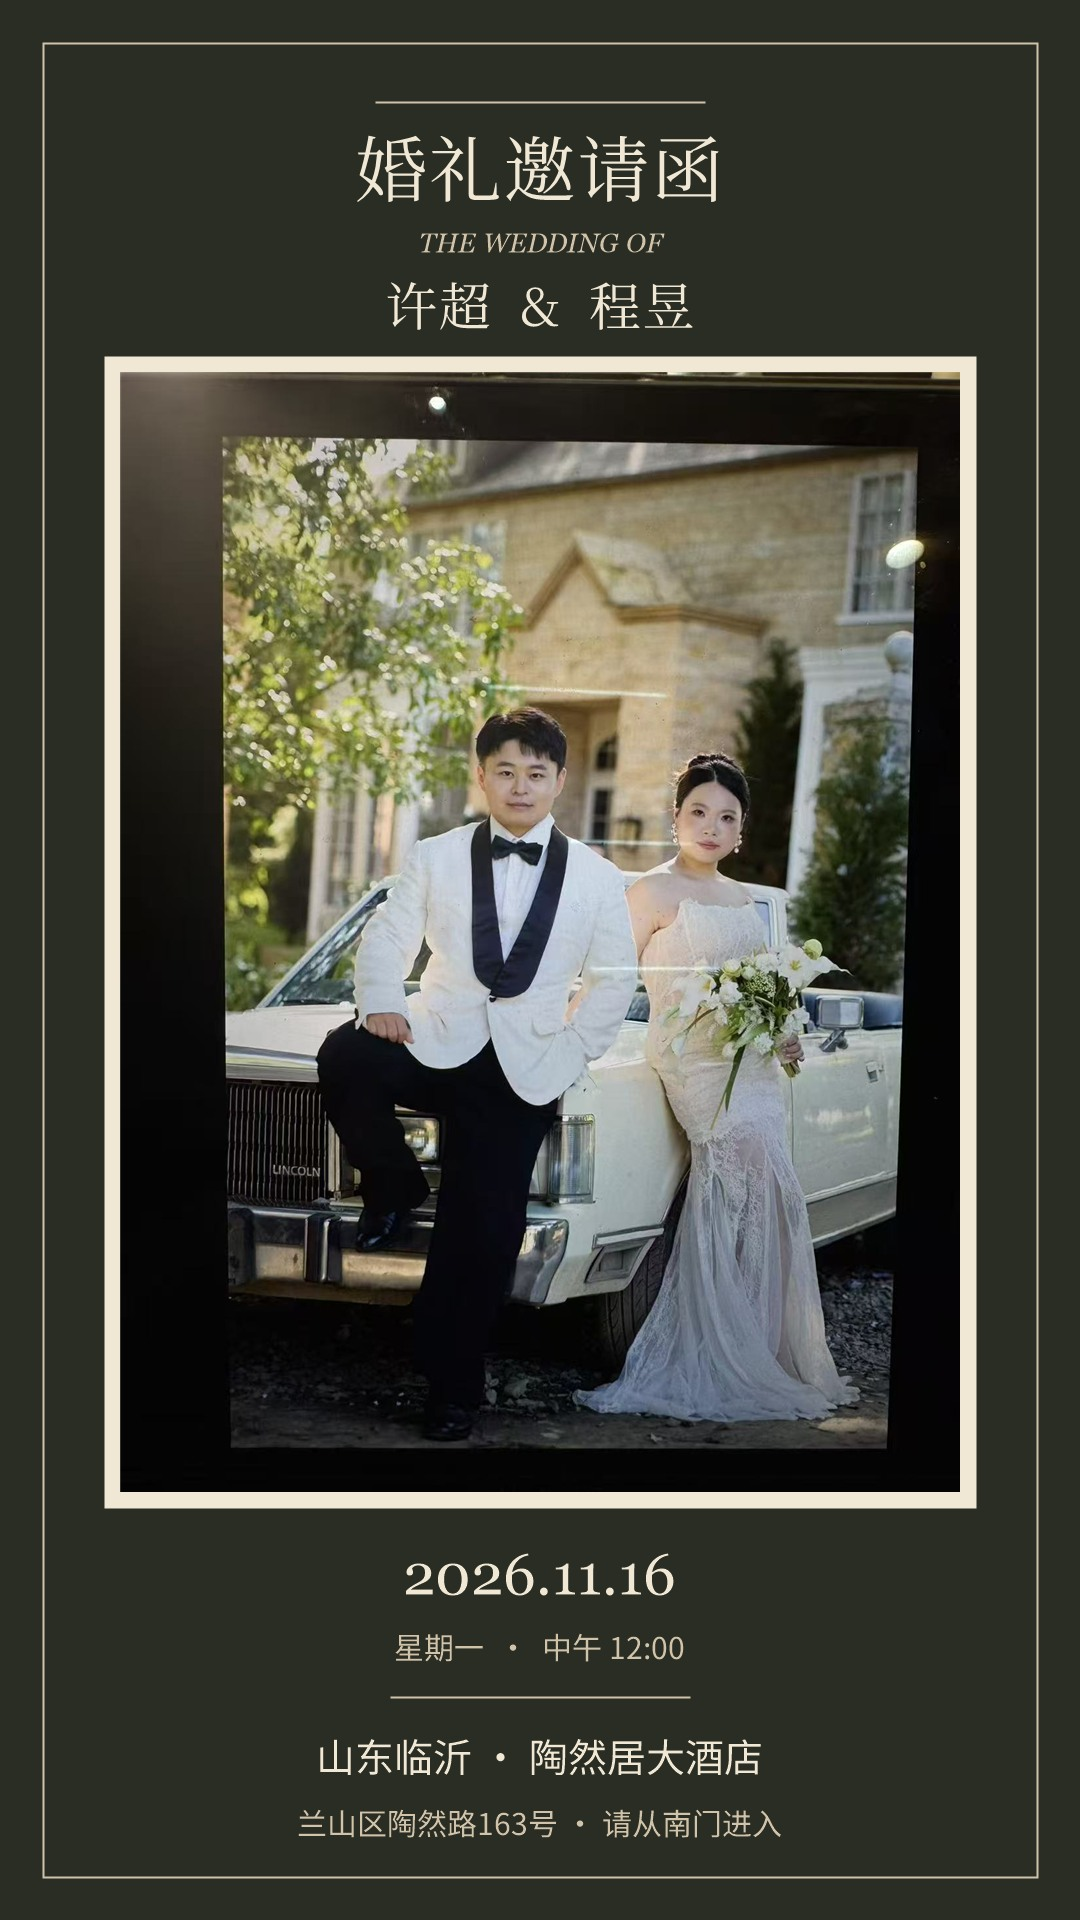
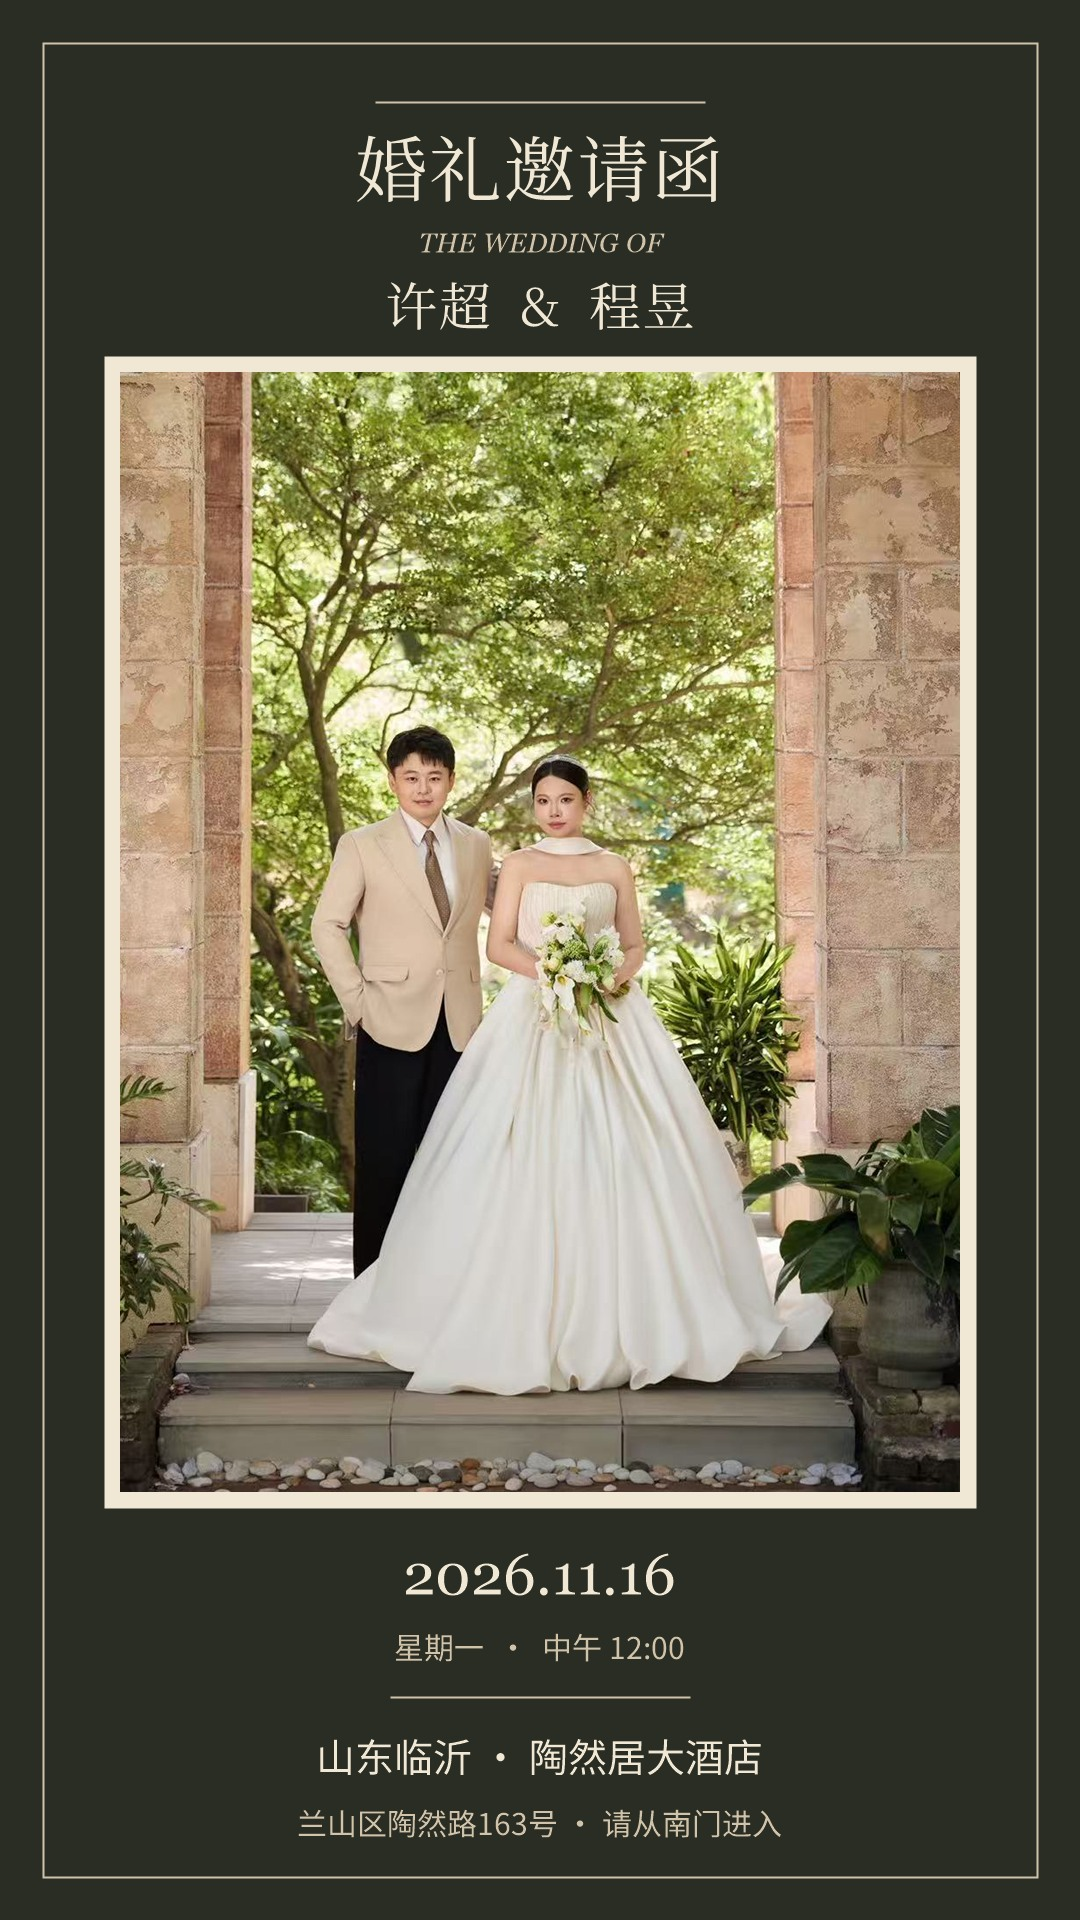
Use new centered wedding portrait for invitation image

diff --git a/index.html b/index.html
@@ -11,8 +11,8 @@
   <meta property="og:title" content="许超 &amp; 程昱 · 婚礼邀请函">
   <meta property="og:description" content="2026年11月16日中午12:00 · 山东临沂陶然居大酒店 · 诚邀您见证我们的婚礼">
   <meta property="og:url" content="https://wedding-invitation-chi-jade.vercel.app/">
-  <meta property="og:image" content="https://wedding-invitation-chi-jade.vercel.app/assets/photos/cover.jpg">
-  <meta property="og:image:alt" content="许超与程昱的婚礼合照">
+  <meta property="og:image" content="https://wedding-invitation-chi-jade.vercel.app/assets/share/invitation.jpg">
+  <meta property="og:image:alt" content="许超与程昱的婚礼邀请图片">
   <meta name="twitter:card" content="summary_large_image">
   <link rel="preload" href="assets/fonts/playfair-display-latin-400.woff2" as="font" type="font/woff2" crossorigin>
   <link rel="preload" href="assets/fonts/great-vibes-latin-400.woff2" as="font" type="font/woff2" crossorigin>

diff --git a/js/config.js b/js/config.js
@@ -227,7 +227,7 @@ const CONFIG = {
   share: {
     title: '许超 & 程昱 · 婚礼邀请函',
     description: '2026年11月16日中午12:00 · 山东临沂陶然居大酒店',
-    image: 'assets/photos/cover.jpg',
+    image: 'assets/share/invitation.jpg',
     ctaText: '分享给好友 →',
   },
 

diff --git a/README.md b/README.md
@@ -31,7 +31,7 @@ npx serve .
 
 ## 配置
 
-编辑 `js/config.js` 修改新人信息、婚礼详情、分享文案与照片列表。微信聊天链接卡片使用 `index.html` 的静态标题、描述和 `og:image`；婚礼信息或正式网址变化时，也要同步修改这些标签。分享图目前使用 `assets/photos/cover.jpg`。
+编辑 `js/config.js` 修改新人信息、婚礼详情、分享文案与照片列表。网页分享预览使用 `index.html` 的静态标题、描述和 `og:image`；微信不保证展示带图链接卡片，建议先发送邀请图片，再发送请柬链接。婚礼信息或正式网址变化时，也要同步修改这些标签。分享图位于 `assets/share/invitation.jpg`，由 `scripts/generate-share-poster.ps1` 根据婚纱照生成。
 
 ## 开发状态
 
